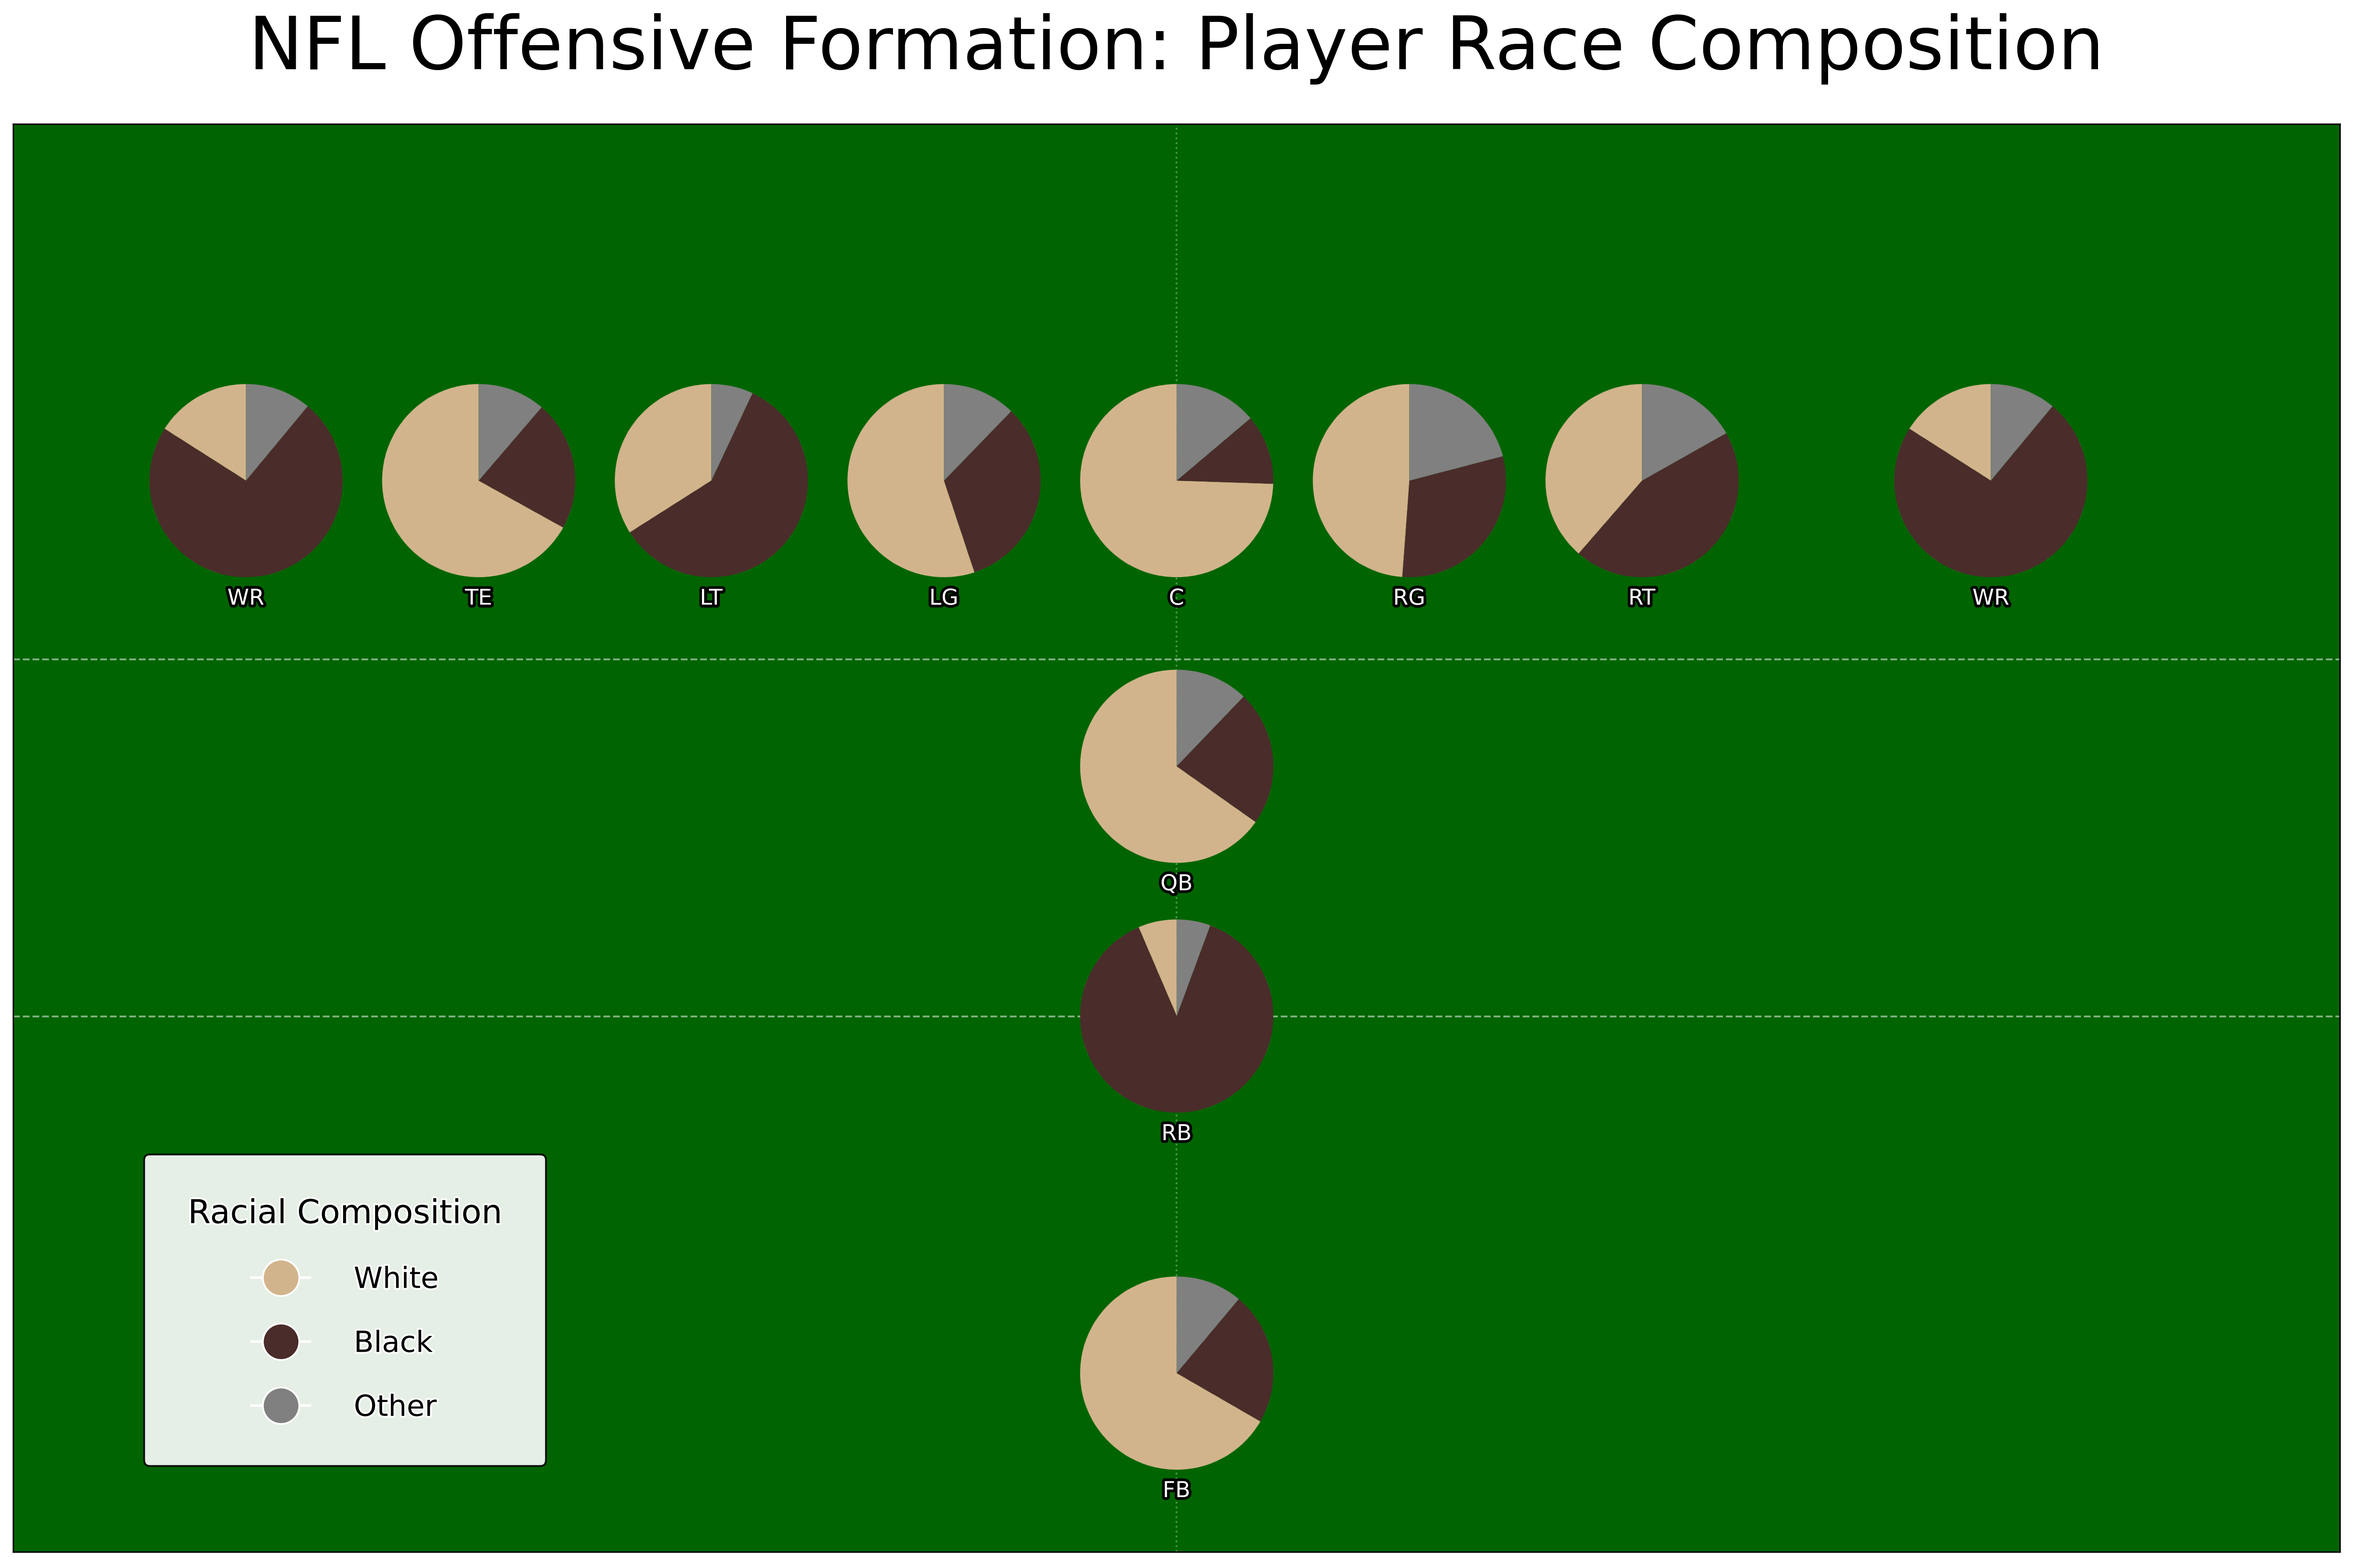
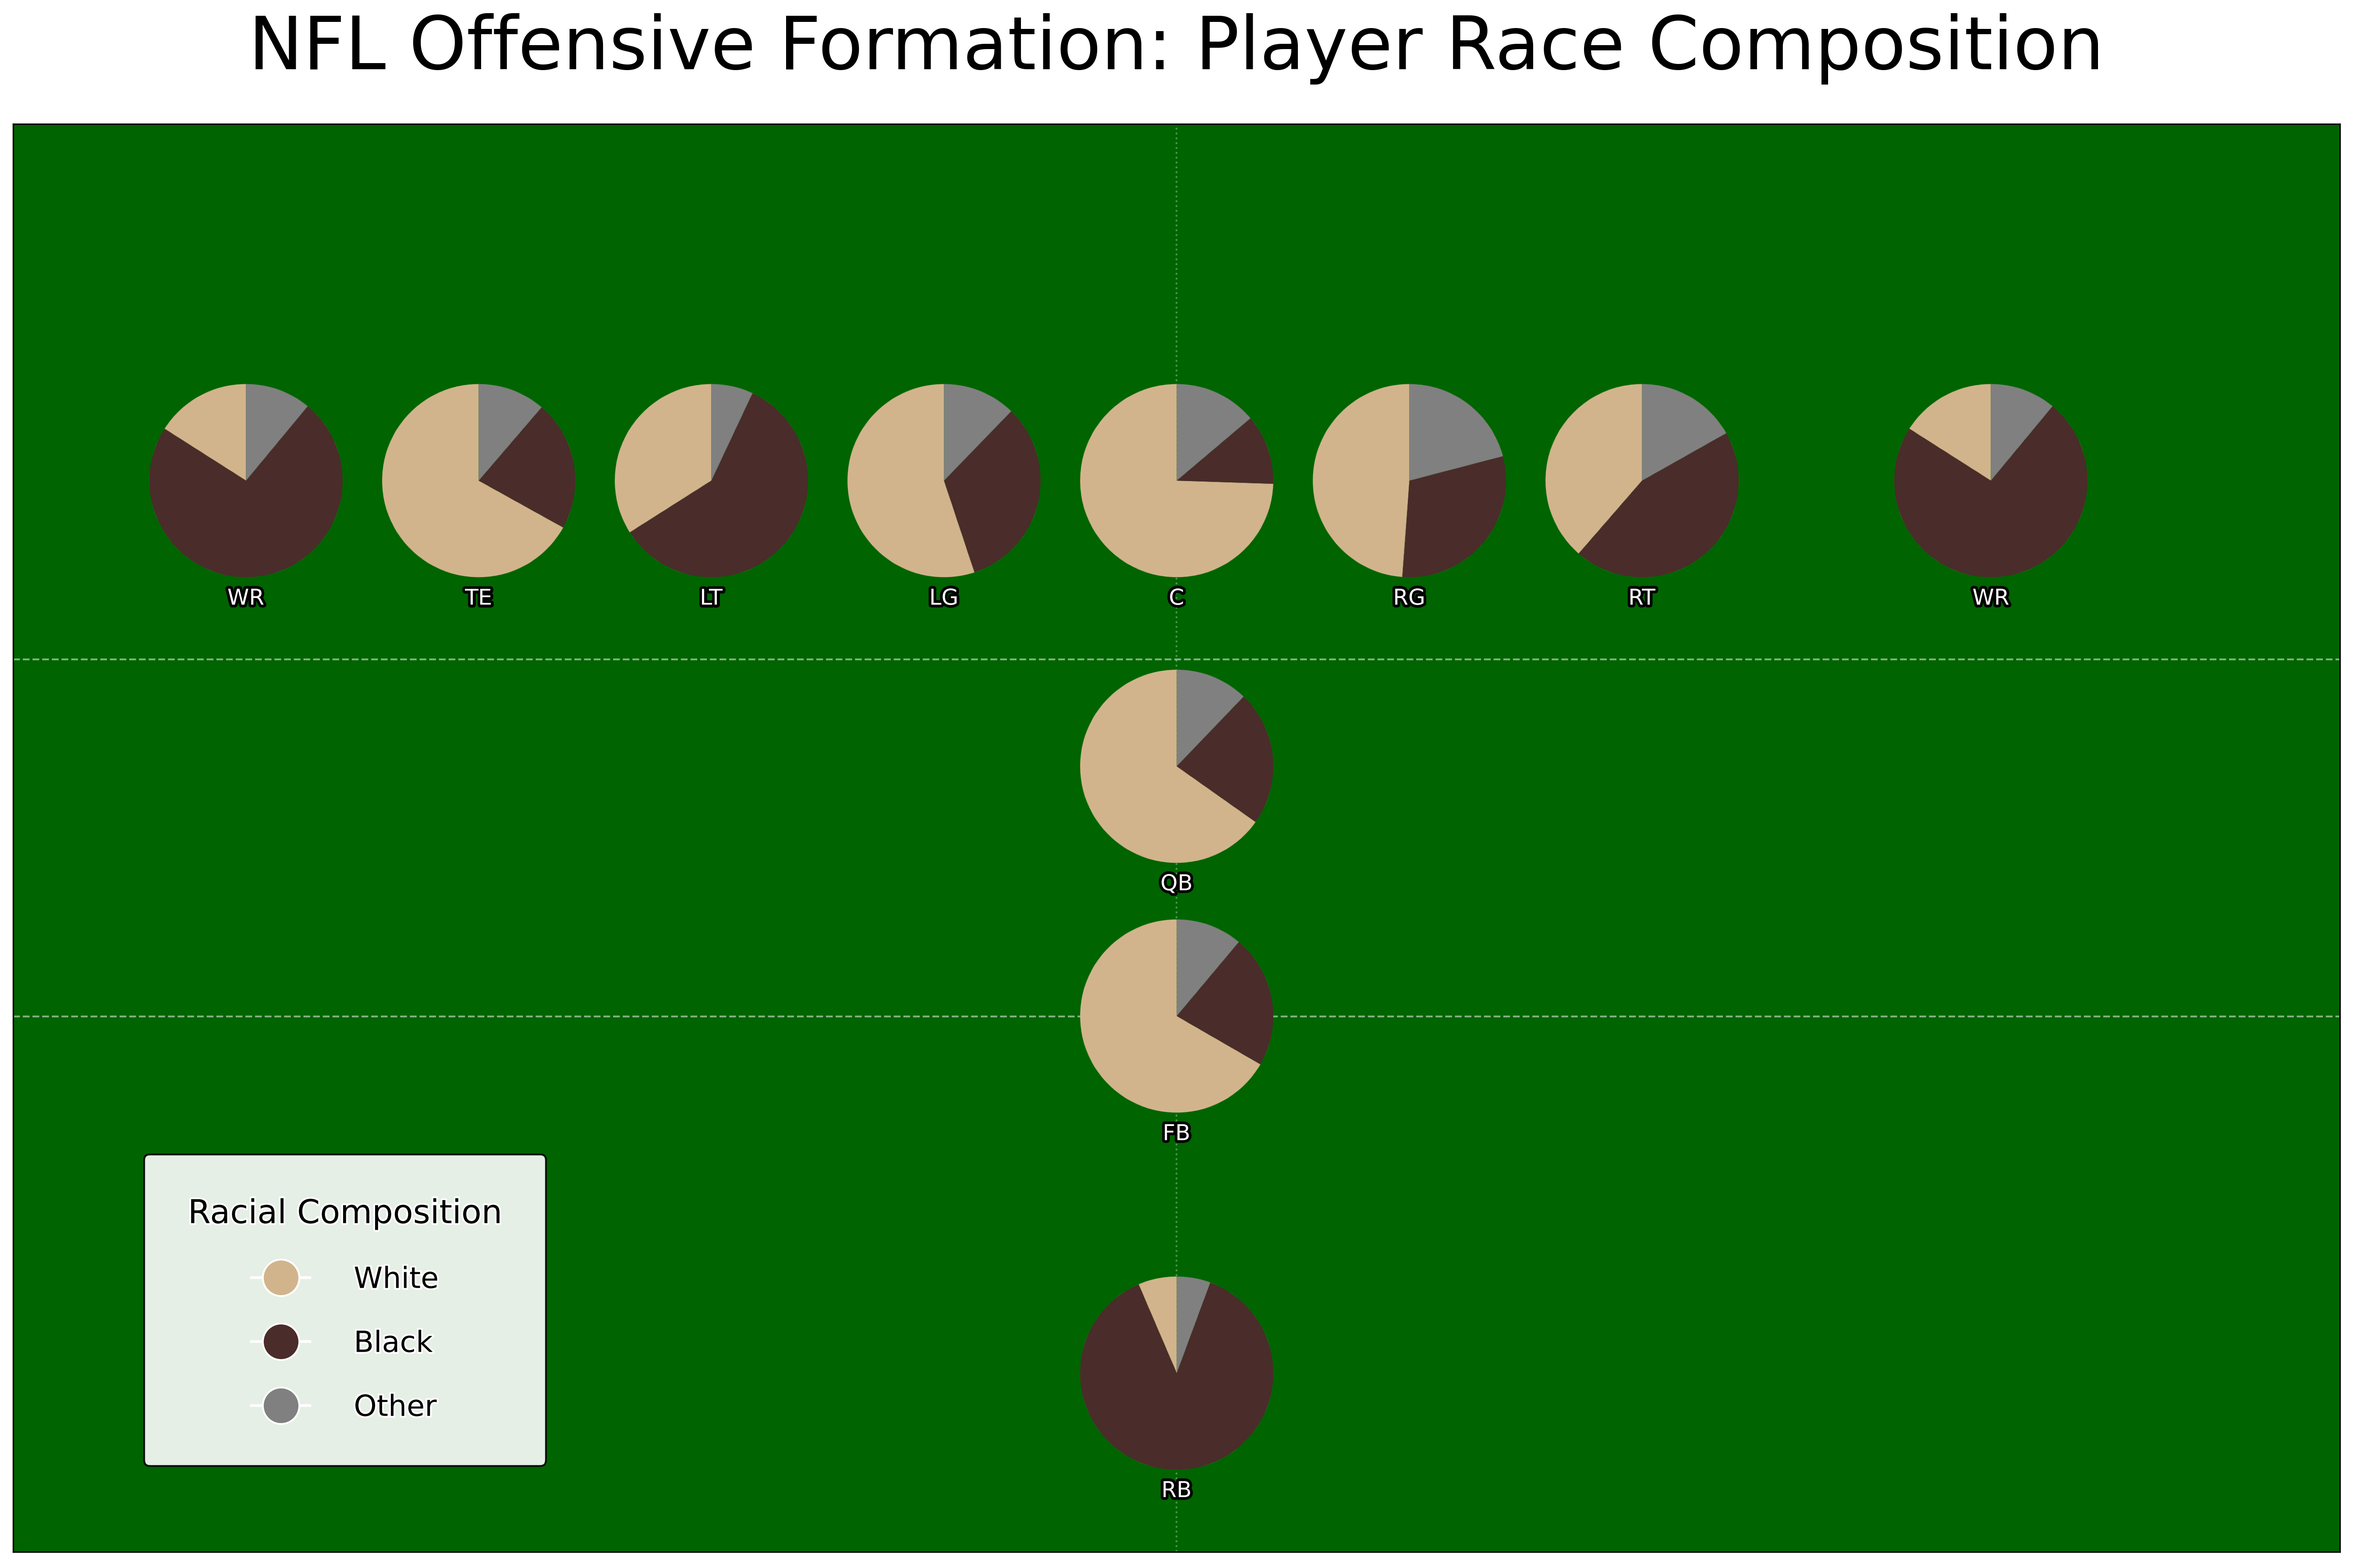
swapped FB and RB to better represent a real formation

Changed region(s): [[0.4354, 0.808, 0.5287, 0.9633], [0.4354, 0.5904, 0.5287, 0.7147]]

diff --git a/offensiveFormation.py b/offensiveFormation.py
@@ -33,11 +33,11 @@ def create_offensive_formation_graphic(input_charts_dir="race_composition_charts
         'LT': {'coords': (30, 30), 'label': 'LT'},
         'RT': {'coords': (70, 30), 'label': 'RT'},
         'QB': {'coords': (50, 22), 'label': 'QB'},
-        'RB': {'coords': (50, 15), 'label': 'RB'},
+        'RB': {'coords': (50, 5), 'label': 'RB'},
         'WR1': {'coords': (10, 30), 'label': 'WR'},
         'WR2': {'coords': (85, 30), 'label': 'WR'},
         'TE': {'coords': (20, 30), 'label': 'TE'},
-        'FB': {'coords': (50, 5), 'label': 'FB'},
+        'FB': {'coords': (50, 15), 'label': 'FB'},
     }
 
     position_chart_filenames = {
